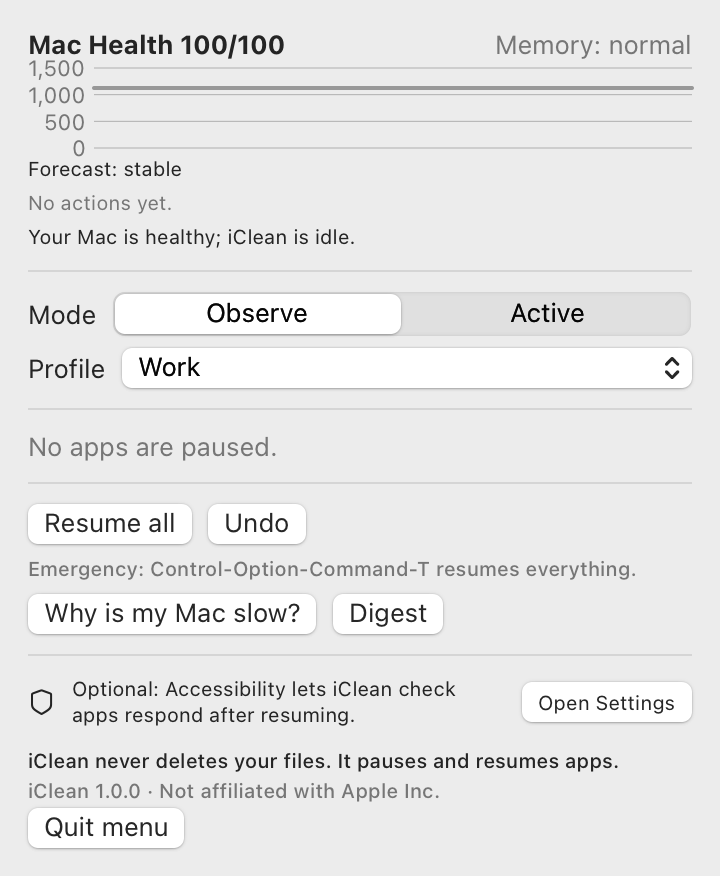
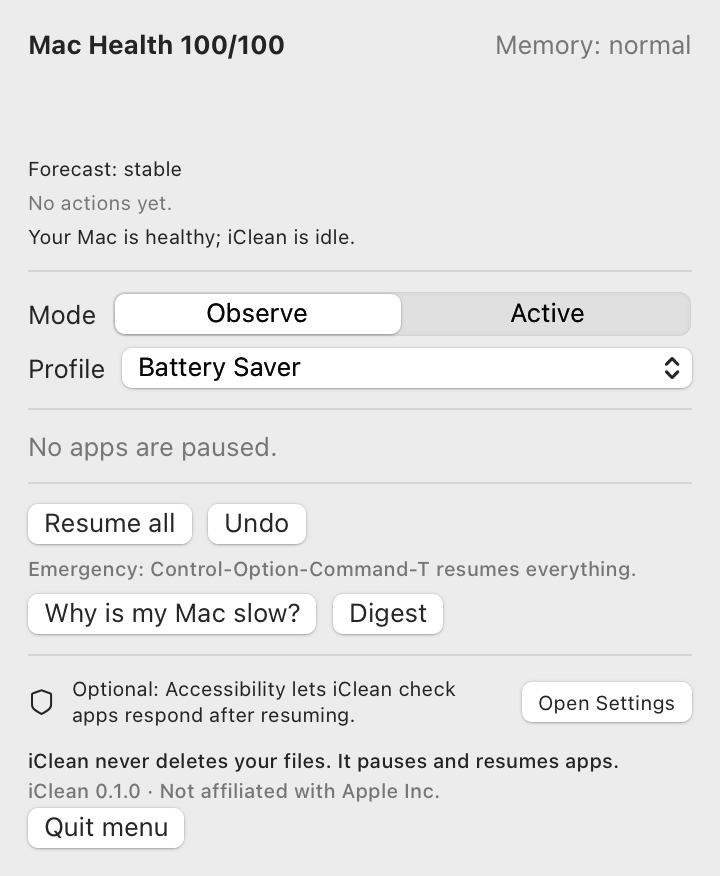
Mark the release as 0.1.0 beta and state exactly what was verified
Add a beta banner to both READMEs, describe macOS support by what CI and
local runs verified, correct the hotkey and resume-all wording, and
regenerate the menu screenshots.

diff --git a/Tests/ICSystemTests/IntegrationTests.swift b/Tests/ICSystemTests/IntegrationTests.swift
@@ -406,7 +406,7 @@ import Testing
 
     @Test func cliOfflineCommands() throws {
         let env = ["ICLEAN_HOME": tempHome().base.path]
-        #expect(run("iclean", ["version"]).out.contains("1.0.0"))
+        #expect(run("iclean", ["version"]).out.contains(icleanVersion))
         #expect(run("iclean", ["help"]).out.contains("never deletes files"))
         let doctor = run("iclean", ["doctor"], env: env)
         #expect(doctor.status == 0 && doctor.out.contains("SIGSTOP/SIGCONT freeze:        yes"))

diff --git a/Sources/ICSystem/Doctor.swift b/Sources/ICSystem/Doctor.swift
@@ -2,7 +2,7 @@ import Darwin
 import Foundation
 import ICCore
 
-public let icleanVersion = "1.0.0"
+public let icleanVersion = "0.1.0"
 
 /// `iclean doctor`: what this Mac is, which mechanisms work here, and daemon health.
 /// Mechanism checks only ever touch a child process the doctor starts itself.

diff --git a/packaging/homebrew/iclean.rb b/packaging/homebrew/iclean.rb
@@ -3,7 +3,7 @@
 class Iclean < Formula
   desc "Pauses idle background apps under memory pressure, resumes them on switch"
   homepage "https://github.com/urrra39/iClean"
-  url "https://github.com/urrra39/iClean/archive/refs/tags/v1.0.0.tar.gz"
+  url "https://github.com/urrra39/iClean/archive/refs/tags/v0.1.0.tar.gz"
   sha256 "REPLACE_WITH_SHA256_OF_THE_TAG_TARBALL"
   license "MIT"
 

diff --git a/packaging/homebrew/iclean-app.rb b/packaging/homebrew/iclean-app.rb
@@ -1,7 +1,7 @@
 # Homebrew cask template for the menu-bar app. Fill in sha256 for a published,
 # notarized release before publishing it in a tap.
 cask "iclean-app" do
-  version "1.0.0"
+  version "0.1.0"
   sha256 "REPLACE_WITH_SHA256_OF_ICLEAN_ZIP"
 
   url "https://github.com/urrra39/iClean/releases/download/v#{version}/iClean-#{version}.zip"

diff --git a/README.uz.md b/README.uz.md
@@ -1,5 +1,9 @@
 # iClean
 
+> **Beta (0.1.0).** Sintetik sinov jarayonlari bilan va bitta Mac'da (Apple M3 Pro,
+> macOS 27.0.1) sinalgan. Haqiqiy ilovalarda Faol rejim hali tasdiqlanmagan. Dastur
+> Kuzatish rejimida boshlanadi, u faqat nima qilgan bo'lardi, shuni yozib boradi.
+
 iClean xotirasi tugayotgan Mac'da fonda bo'sh turgan ilovalarni pauza qiladi va siz
 qaysi biriga qaytsangiz, uni o'sha zahoti davom ettiradi. Pauza qilingan ilova
 oynalari, tablari va saqlanmagan holatini saqlab qoladi. U shunchaki ishlashdan
@@ -53,7 +57,9 @@ fonda tez-tez uyg'onib turadi.
 - **Avval Kuzatish rejimi**: uni Faol rejimga o'tkazmaguningizcha, iClean faqat nima
   qilgan bo'lardi, shuni yozib boradi.
 - **Bekor qilish, Hammasini davom ettirish va favqulodda tugmalar**
-  (Control-Option-Command-T). Ular xizmat (daemon) ishdan chiqqan bo'lsa ham ishlaydi.
+  (Control-Option-Command-T, menyu ilovasi ishlab turganda). Hammasini davom ettirish
+  (menyu yoki `iclean thaw --all`) xizmat ishdan chiqqan bo'lsa ham ishlaydi; u
+  muzlatish jurnalini qayta o'qiydi.
 - **Kunlik/haftalik hisobot**: faqat o'lchangan raqamlar, va "bu ilova vaqtning 92%
   ida bo'sh turdi, qo'shamizmi?" yoki "buni bir daqiqa ichida uch marta qayta
   ochdingiz, chiqarib tashlaymizmi?" kabi takliflar.
@@ -100,7 +106,10 @@ telemetriya yo'q.
 
 ## O'rnatish
 
-macOS 13 yoki undan yangisi, Apple Silicon yoki Intel kerak.
+macOS 13 va undan yangilari, Apple Silicon va Intel uchun qurilgan (universal ikkilik
+fayl). Hozircha tasdiqlangani: build va to'liq testlar CI da macOS 15.7 (Apple Silicon va
+Intel) va macOS 26.6 da, mahalliy ravishda macOS 27.0.1 (Apple M3 Pro) da. macOS 13 va
+14 tasdiqlanmagan.
 
 **Manba koddan** (hozircha yagona yo'l):
 
@@ -112,7 +121,7 @@ cp -R dist/iClean.app /Applications/
 
 Build ad-hoc imzolangan, notarizatsiyadan o'tmagan. Agar macOS birinchi ishga
 tushirishni to'xtatsa, ilovani o'ng tugma bilan bosing, Open ni tanlang va
-tasdiqlang. Buyruq qatori vositalari `dist/iclean-1.0.0/` da va ilova ichida
+tasdiqlang. Buyruq qatori vositalari `dist/iclean-0.1.0/` da va ilova ichida
 `iClean.app/Contents/Helpers/` da.
 
 Tayyor relizlar va Homebrew rejalashtirilgan, lekin hali chiqarilmagan.
@@ -172,7 +181,9 @@ topmadik ([NOVELTY.md](docs/NOVELTY.md)). Topilmagani mavjud emasligini isbotlam
 
 ## Qayerda sinalgan
 
-Hozircha faqat bitta Mac'da: Apple M3 Pro, 18 GB, macOS 27.0.1. iClean chegaralarini
+Haqiqiy foydalanish, o'lchovlar va o'rnatish/o'chirish: hozircha bitta Mac (Apple M3 Pro,
+18 GB, macOS 27.0.1). Avtomatik testlar GitHub'ning macOS 15.7 (Apple Silicon va Intel)
+va macOS 26.6 runnerlarida ham o'tadi. iClean chegaralarini
 RAM hajmi, disk turi va batareyaga moslaydi, lekin "har qanday MacBook'ga moslashadi"
 degani "har bir MacBook'da sinalgan" degani emas. `iclean doctor --report` ni ishga
 tushiring va Mac'ingizni [COMPATIBILITY.md](docs/COMPATIBILITY.md) ga qo'shing.

diff --git a/README.md b/README.md
@@ -1,5 +1,9 @@
 # iClean
 
+> **Beta (0.1.0).** Tested with synthetic test processes and on one Mac (Apple M3 Pro,
+> macOS 27.0.1). Active mode on real apps is not yet validated. It starts in Observe
+> mode, which only records what it would do.
+
 iClean pauses idle background apps on a Mac that is running out of memory, and resumes
 each one the moment you switch back to it. A paused app keeps its windows, tabs and
 unsaved state. It just stops running, so macOS can compress or swap its memory instead
@@ -46,8 +50,9 @@ waking up in the background.
 - **Focus Safe Mode**: no automatic action during calls, screen sharing, mirroring or
   fullscreen use.
 - **Observe mode first**: it records what it *would* do until you switch it to Active.
-- **Undo, Resume all, and an emergency hotkey** (Control-Option-Command-T). These work
-  even if the daemon has crashed.
+- **Undo, Resume all, and an emergency hotkey** (Control-Option-Command-T, while the
+  menu app runs). Resume all (menu or `iclean thaw --all`) works even if the daemon
+  has crashed; it replays the freeze journal.
 - **Daily/weekly digest** with measured numbers only, and suggestions such as "this app
   was idle 92% of the time, add it?" or "you reopened this one within a minute three
   times, exclude it?".
@@ -91,7 +96,10 @@ No root, no kernel extension, no SIP changes, no network access, no telemetry.
 
 ## Install
 
-Requires macOS 13 or later, Apple Silicon or Intel.
+Built for macOS 13 and later, Apple Silicon and Intel (universal binary). Verified so
+far: the build and full test suite on macOS 15.7 (Apple Silicon and Intel) and macOS
+26.6 in CI, and on macOS 27.0.1 (Apple M3 Pro) locally. macOS 13 and 14 are not
+verified.
 
 **From source** (the only install path today):
 
@@ -103,7 +111,7 @@ cp -R dist/iClean.app /Applications/
 
 The build is ad-hoc signed, not notarized. If macOS blocks the first launch,
 right-click the app, choose Open, then confirm. The command-line tools are in
-`dist/iclean-1.0.0/` and inside the app at `iClean.app/Contents/Helpers/`.
+`dist/iclean-0.1.0/` and inside the app at `iClean.app/Contents/Helpers/`.
 
 Prebuilt release downloads and a Homebrew tap are planned but not published yet.
 Formula and cask templates are in [`packaging/homebrew/`](packaging/homebrew/).
@@ -160,7 +168,9 @@ something is not proof that it does not exist.
 
 ## Tested on
 
-Only one Mac so far: Apple M3 Pro, 18 GB, macOS 27.0.1. iClean adapts its thresholds to
+Real use, benchmarks and install/uninstall: one Mac so far (Apple M3 Pro, 18 GB, macOS
+27.0.1). The automated test suite also passes on GitHub's macOS 15.7 (Apple Silicon and
+Intel) and macOS 26.6 runners. iClean adapts its thresholds to
 RAM size, disk type and battery, but "adapts to any MacBook" is not "tested on every
 MacBook". Run `iclean doctor --report` and add your Mac to
 [COMPATIBILITY.md](docs/COMPATIBILITY.md).

diff --git a/docs/FAQ.md b/docs/FAQ.md
@@ -50,8 +50,9 @@ No. iClean has no network code at all (a test enforces this). Everything it lear
 stays in `~/Library/Application Support/iClean/`, in readable JSON you can delete.
 
 **Something looks frozen. What do I do?**
-Press Control-Option-Command-T, click "Resume all" in the menu, or run
-`iclean thaw --all`. All three work even if the daemon has crashed.
+Press Control-Option-Command-T (while the menu app runs), click "Resume all" in the
+menu, or run `iclean thaw --all`. All three work even if the daemon has crashed,
+because they replay the freeze journal.
 
 **How do I see why an app was or was not paused?**
 `iclean explain <app name>`.

diff --git a/docs/BENCHMARKS.md b/docs/BENCHMARKS.md
@@ -80,9 +80,9 @@ benchmark estimate (tick CPU ÷ 15 s = 0.47%) is also listed above for the old i
 
 ```sh
 scripts/build-release.sh
-dist/iclean-1.0.0/iclean bench            # markdown table
-dist/iclean-1.0.0/iclean bench --json     # machine-readable
-dist/iclean-1.0.0/iclean bench --quick    # smaller, lower pressure cap (25%)
+dist/iclean-0.1.0/iclean bench            # markdown table
+dist/iclean-0.1.0/iclean bench --json     # machine-readable
+dist/iclean-0.1.0/iclean bench --quick    # smaller, lower pressure cap (25%)
 ```
 
 The pressure scenario uses real memory. Close unsaved work first.

diff --git a/CHANGELOG.md b/CHANGELOG.md
@@ -1,6 +1,6 @@
 # Changelog
 
-## 1.0.0 (unreleased)
+## 0.1.0 (beta)
 
 First version.
 
